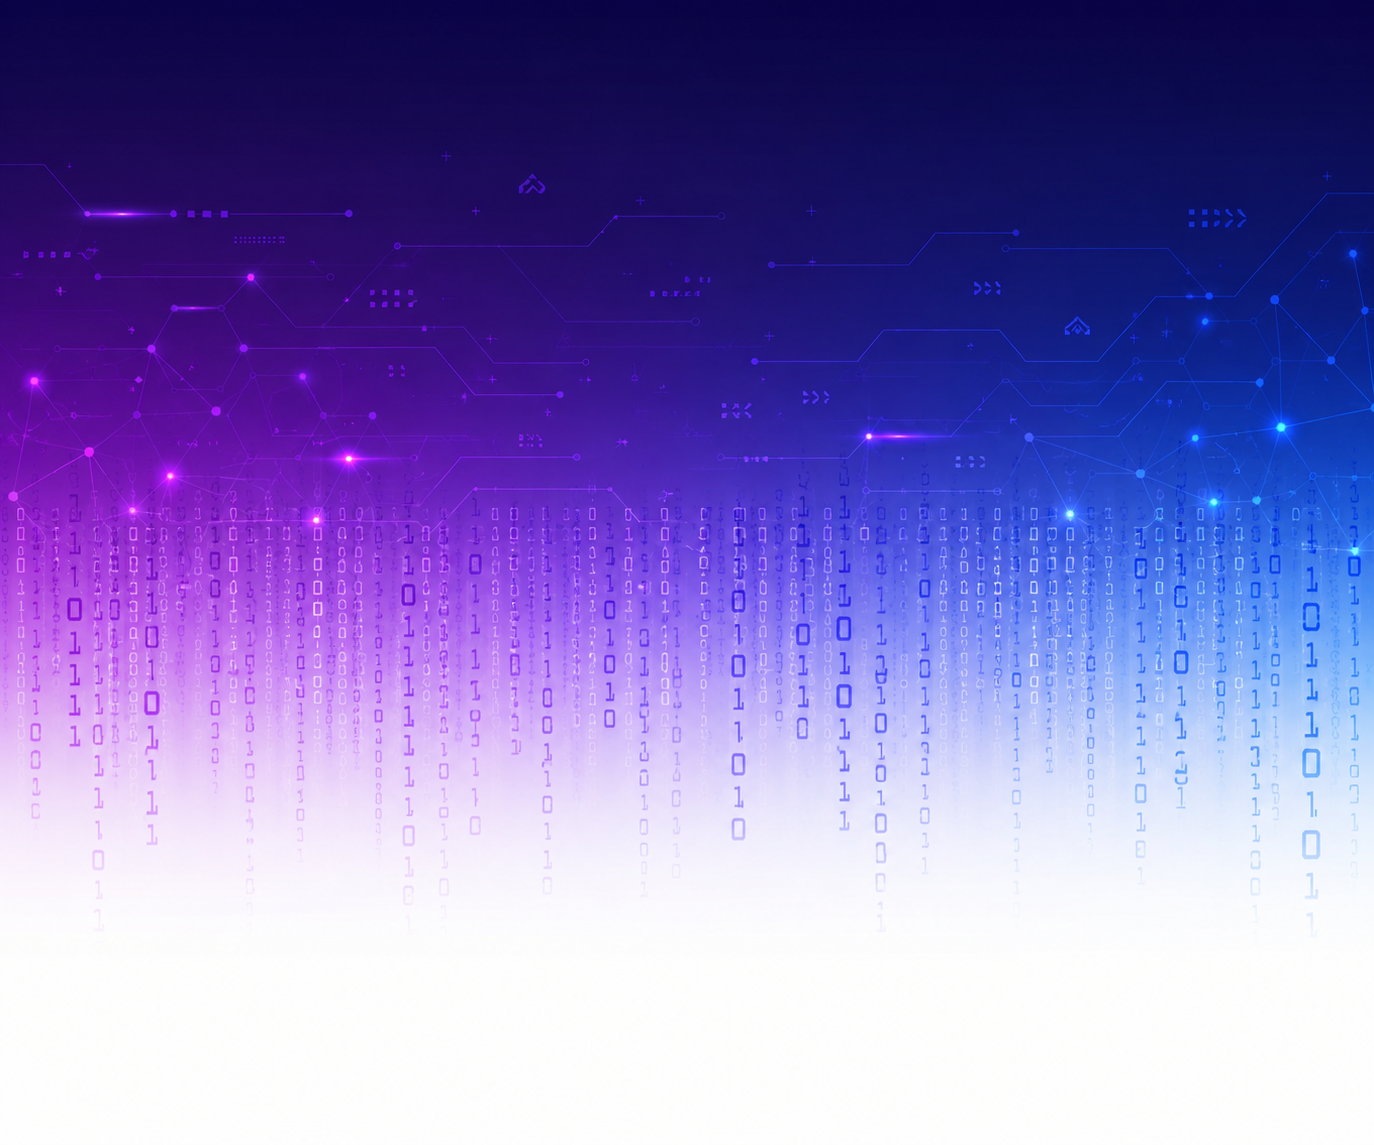
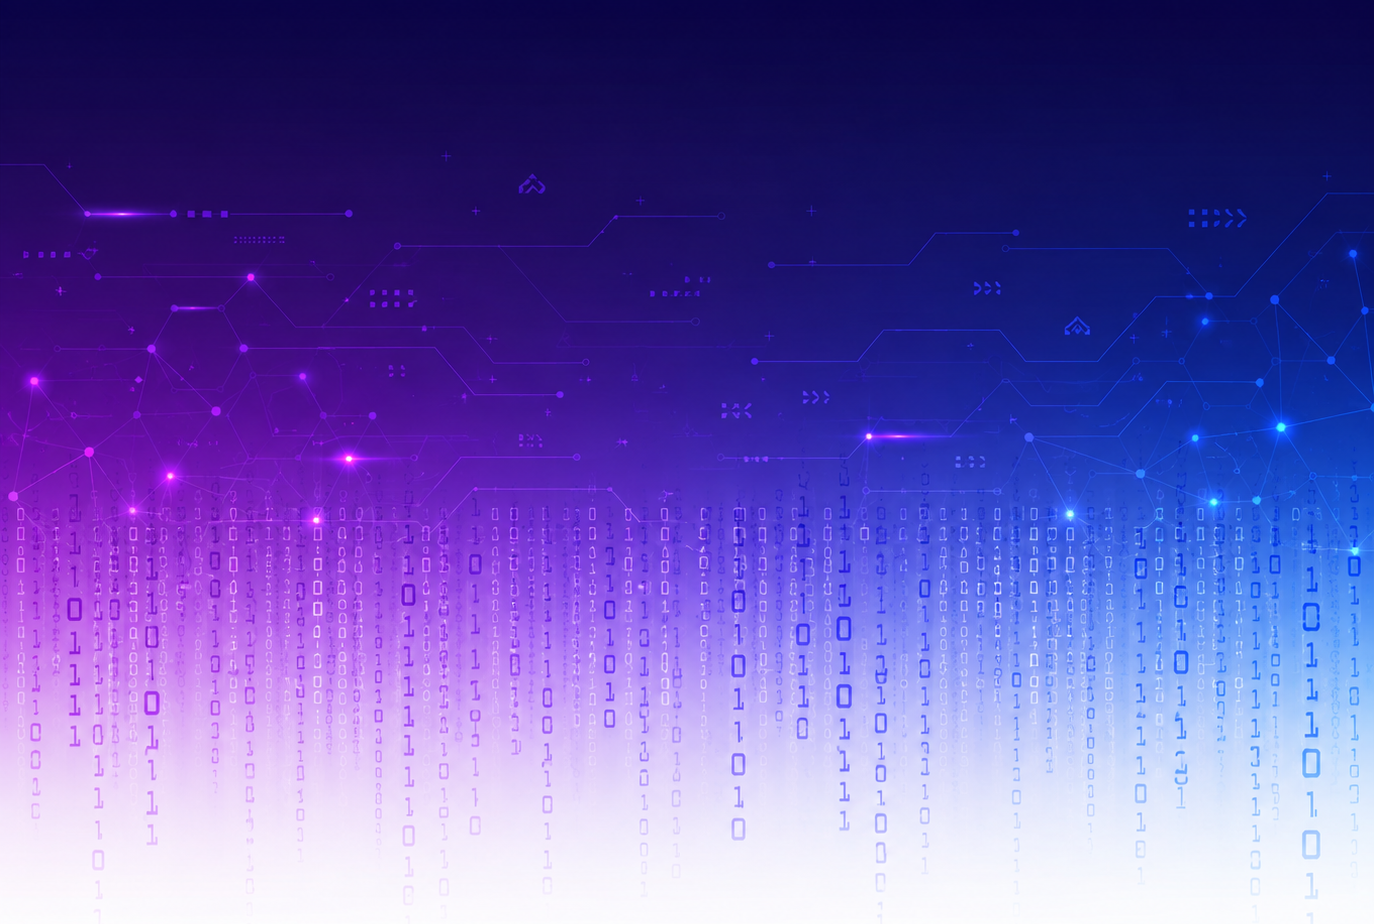
feat: conteúdo principal (primeira versão)

diff --git a/index.html b/index.html
@@ -4,38 +4,178 @@
 <head>
     <meta charset="UTF-8">
     <meta name="viewport" content="width=device-width, initial-scale=1.0">
+    <link href="https://cdn.jsdelivr.net/npm/bootstrap@5.3.8/dist/css/bootstrap.min.css" rel="stylesheet" integrity="sha384-sRIl4kxILFvY47J16cr9ZwB07vP4J8+LH7qKQnuqkuIAvNWLzeN8tE5YBujZqJLB" crossorigin="anonymous">
+    <link href="https://fonts.googleapis.com/css2?family=Poppins:wght@300;400;500;600;700&display=swap" rel="stylesheet">
     <link rel="stylesheet" href="styles.css">
+
     <title> Portifólio - Camila Rocha</title>
 </head>
 
 <body>
+    
     <img id="fundo" src="\img\fundo-portifolio.png" alt="fundo de tela">
 
     <header class="topo">
         <nav id="barra-navegacao">
-            <nav class="">
-                <a href="" id="btn-formacao">Formação</a>
-                <a href="" id="btn-hobbies">Projetos Acadêmicos</a>
-                <a href="" id="btn-hobbies">Projetos Pessoais</a>
-                <a href="" id="btn-hobbies">Hobbies & Interesses</a>
-            </nav>
+            
+                <a href="#sobre-mim" id="btn-sobre">Sobre</a>
+                <a href="#formacao" id="btn-formacao">Formação & Experiências</a>
+                <a href="#projetos" id="btn-projetos">Projetos</a>
+                <a href="#hobbies" id="btn-hobbies">Hobbies & Interesses</a>
+            
         </nav>
 
         <div class="titulo">
 
             <div id="titulo-nome">
                 <div id="foto_nome">
-                    <img id="minha-foto" src="" alt="Camila">
-                    <h1 class="nome">Camila Rocha</h1>
+                    <img id="minha-foto" src="\img\Foto_formalCortada3X4.JPG" alt="Camila">
+                    <div class="nome">
+                        <h1 id="camila">Camila Rocha</h1>
+                        <h3 id="camila-descricao">Estudante de Engenharia de Computação</h3>
+                        <div class="links">
+                            <button class="redes-sociais">
+                                <a id="linkedin" href="https://www.linkedin.com/in/camilausrocha/">LinkedIn</a>
+                            </button>
+                            <button  class="redes-sociais">
+                                <a id="curriculo-lattes" href="http://lattes.cnpq.br/1262790311449494">Lattes</a>
+                            </button>
+                        </div>
+                        
+                    </div>
                 </div>
-
-                <h2 class="nome">Estudante de Engenharia de Computação</h2>
             </div>
 
         </div>
     </header>
 
+    <section>
+        <!--SOBRE MIM-->
+        <div class="sobre-container" id="sobre-mim">
+            <h2 class="secao-titulo">Sobre mim</h2>
+            <p class="texto">Sou estudante de Engenharia da Computação, apaixonada por tecnologia e por transformar ideias em soluções. 
+                Tenho interesse em desenvolvimento de software, Inteligência Artificial, dados e tecnologias imersivas.</p>
+            <p class="texto">Ao longo da minha formação, venho buscando unir conhecimento técnico, criatividade e pesquisa por meio de 
+                projetos acadêmicos e experiências práticas. 
+                Estou sempre em busca de novos desafios e oportunidades para aprender, evoluir e construir tecnologias que façam a diferença.</p>
+            <img id="foto-cimatec" src="https://encrypted-tbn0.gstatic.com/images?q=tbn:ANd9GcRUS1OpNFVLbGpNes0fF6_YSXW_mGLy3oaj95BMQ_Tnlg&s=10" alt="cimatec">
+        </div>      
+          <!--FORMAÇÃO E EXPERIÊNCIAS-->
+        <div class="sobre-container" id="formacao">
+            <h2 class="secao-titulo">Formação & Experiências</h2>
+            <p class="texto">
+                Estudante de <strong>Engenharia de Computação na Universidade SENAI CIMATEC</strong>, atualmente cursando o 6º semestre.
+            </p>
+            <!--SUBTOPICOS-->
+            <h3 class="subtopico">CIMATEC Jr.</h3>
+            <p class="sub-texto">Atuação na empresa jr da Universidade CIMATEC, 
+                com experiência em desenvolvimento profissional, organização e trabalho em equipe.</p>
 
+            <h3 class="subtopico">Clube de Programação</h3>
+            <p class="sub-texto">Atuação como Diretora da área de marketing e comunicação,
+                contribuindo para a criação de conteúdos, divulgação das atividades do clube e organização do setor.</p>
+
+            <!--CLUBE DE PROGRAMAÇÃO - CARROSSEL DE FOTOS-->
+            <div id="carouselExample" class="carousel slide" data-bs-ride="carousel">
+                <div class="carousel-inner">
+                    <div class="carousel-item active">
+                    <img src="img/primeira-foto-clube.jpg" class="imagem-carrossel" alt="diretoria do clube">
+                    </div>
+                    <div class="carousel-item">
+                    <img src="img/diretoriaClube.jpeg" class="imagem-carrossel" alt="diretoria do clube">
+                    </div>
+                    <div class="carousel-item">
+                    <img src="img/marketing-clube.JPG" class="imagem-carrossel" alt="marketing do clube">
+                    </div>
+                </div>
+                <button class="carousel-control-prev" type="button" data-bs-target="#carouselExample" data-bs-slide="prev">
+                    <span class="carousel-control-prev-icon" aria-hidden="true"></span>
+                    <span class="visually-hidden">Previous</span>
+                </button>
+                <button class="carousel-control-next" type="button" data-bs-target="#carouselExample" data-bs-slide="next">
+                    <span class="carousel-control-next-icon" aria-hidden="true"></span>
+                    <span class="visually-hidden">Next</span>
+                </button>
+            </div>
+
+
+            <h3 class="subtopico">HIIVE Lab / INCITE Indústria 4.0</h3>
+            <p class="sub-texto">Bolsista de Iniciação Científica no Laboratório de Realidade Virtual HIIVE Lab do SENAI CIMATEC com participação 
+                em projetos de pesquisa e divulgação científica envolvendo Realidade Virtual e Indústria 4.0 
+                e estudos de presença em ambientes imersivos.</p>
+
+            <h3 class="subtopico">Eventos e competições</h3>
+            <p class="sub-texto">Participação em eventos e iniciativas de tecnologia, incluindo SUCESU-BA 2025, SBGAMES, SVR e SIBGRAPI 2025 como voluntária, 
+                além da Olimpíada de Computação CIMATEC nos anos 2024 e 2025 e da Olimpíada Brasileira de Informática (OBI) em 2024.</p>
+            
+        </div>
+          <!--PROJETOS DESENVOLVIDOS-->
+        <div class="sobre-container" id="projetos">
+            <h2 class="secao-titulo">Projetos Desenvolvidos</h2>
+
+            <!--SUBTOPICOS-->
+
+            <h3 class="subtopico">Pokémon Battle Game</h3>
+            <p class="sub-texto"> Jogo desenvolvido em C,
+                aplicando conceitos de algoritmos, estruturas de dados e lógica de programação.</p>
+
+            <h3 class="subtopico">Banco de Dados — INCITE Indústria 4.0</h3>
+            <p class="sub-texto"> Projeto de modelagem e implementação de banco de dados utilizando Oracle, SQL e PL/SQL, 
+                incluindo triggers, funções e regras de negócio.
+                Desenvolvimento de um banco de dados para centralizar e organizar informações da Rede INCITE Indústria 4.0, 
+                abrangendo gestão de colaboradores, pesquisadores, projetos, recursos financeiros, 
+                estoque e processos de aquisição, incluindo o controle de despesas e a documentação associada às compras.
+            </p>
+
+            <h3 class="subtopico"> BioHome App</h3>
+            <p class="sub-texto"> Desenvolvimento de um aplicativo que oferece
+                calendários personalizados de coleta seletiva conforme a localização do usuário, 
+                facilitando a organização e o descarte correto de resíduos em ambientes residenciais. 
+                O projeto busca utilizar a tecnologia para incentivar a reciclagem, promover hábitos sustentáveis 
+                e reduzir os impactos ambientais causados pelo descarte inadequado.</p>
+
+            <h3 class="subtopico">Landing Page — Clube do Livro</h3>
+            <p class="sub-texto"> Desenvolvimento de uma landing page para um clube do livro, com foco em experiência do usuário, 
+                design responsivo e comunicação visual, incentivando a leitura e a participação em comunidades literárias.</p>
+        </div>
+
+        <!--HOBBIES E INTERESSES-->
+
+        <div class="sobre-container" id="hobbies">
+            <h2 class="secao-titulo">Hobbies & Interesses</h2>
+            <p class="texto">Fora da programação e da universidade, gosto de atividades
+                que envolvam criatividade, esporte, tecnologia e aprendizado.</p>
+            
+            <ul>
+                <li id="item1" class="texto"><strong>Programação</strong> — Gosto de aprender novas linguagens, 
+                    frameworks e tecnologias desenvolvendo projetos na prática.</li>
+                <li id="item1" class="texto"><strong>Inteligência Artificial</strong> — Tenho interesse em IA generativa, 
+                    LLMs, agentes inteligentes e novas aplicações da tecnologia.</li>
+                <li id="item1" class="texto"><strong>Dados</strong> — Interesse em análise de dados e na utilização de informações para criar soluções e tomar decisões.</li>
+                <li id="item1" class="texto"><strong>Criatividade e design</strong> — Também gosto de explorar a parte visual e criativa dos projetos,
+                     especialmente interfaces, identidade visual e criação de conteúdo.</li>
+                <li id="item1" class="texto"><strong>Vôlei</strong> — Além de praticar, já tive experiência na organização e 
+                    liderança de uma equipe feminina de vôlei. Atualmente, sou capitã do time da atlética Cimatlética SENAI CIMATEC ,
+                    além de participar como membro da diretoria de 2026.</li>
+            </ul>
+
+
+
+        </div>
+
+    </section>
+
+
+<script src="https://cdn.jsdelivr.net/npm/bootstrap@5.3.3/dist/js/bootstrap.bundle.min.js"></script>
+    
 </body>
 
+<footer id="rodape">
+    <div id="contato">
+        <p>Email: milaurocha@gmail.com</p>
+        <p>Tel: (71) 9 9954-2005</p>
+    </div>
+</footer>
+
 </html>
+

diff --git a/styles.css b/styles.css
@@ -1,9 +1,16 @@
 
+/*CSS Global*/
 html, body {
     margin: 0;
     padding: 0;
     box-sizing: border-box;
 }
+
+a{
+    color: aliceblue;
+    text-decoration: none;
+}
+/*-------------------------*/
 
 #fundo{
     width: 100%;
@@ -12,14 +19,14 @@ html, body {
 }
 
 .topo{
-    position: fixed;
+    position: absolute;
     top: 0;
     left: 0;
     width: 100%;
     z-index: 1000;
 }
 
-#barra-navegacao nav{
+#barra-navegacao{
     display: flex;
     justify-content: center;
     align-items: center;
@@ -52,11 +59,134 @@ html, body {
     flex-direction: column;
     justify-content: center;
     align-items: center;
-    padding: 100px 0;
+    padding: 40px 0;
 }
 
 #foto_nome{
     display: flex;
-    gap: 20px;
-    
+    gap: 10px;
+    align-items: center;
+}
+
+#minha-foto{
+    border-radius: 100%;
+    height: 200px;
+    width: 200px;
+    border-color: rgb(226, 43, 226);
+    border-width: 2px;
+    border-style: outset;
+}
+
+.nome{
+    font-family: Poppins;
+    color: white;
+    font-weight: 500;
+}
+
+#camila{
+    font-family: 'Poppins', sans-serif;
+    font-size: 40px;
+    margin-bottom: 4px;
+    margin-left: 20px;
+}
+
+#camila-descricao{
+    font-family: 'Poppins', sans-serif;
+    font-size: 20px;
+    margin-top: 0;
+    margin-left: 20px;
+    font-weight: 300;
+}
+
+.links{
+    gap:18px;
+    display: flex;
+    justify-content: first baseline;
+    padding: 18px;
+}
+
+.redes-sociais{
+    padding: 10px;
+    font-family: 'Segoe UI', Tahoma, Geneva, Verdana, sans-serif;
+    height: auto;
+    width: 120px;
+    background-color: rgb(99, 21, 172);
+    font-size: medium;
+    border: none;
+    border-radius: 30px;
+    color: white;
+}
+
+.redes-sociais:hover{
+    background-color:  rgb(68, 14, 119);
+}
+
+#foto-cimatec{
+    width: 580px;
+    height: auto;
+}
+
+.sobre-container{
+    display: flex;
+    flex-direction: column;
+    justify-content: center;
+    align-items: flex-start;
+    padding: 0 400px 100px 400px;
+}
+
+.secao-titulo{
+    font-family: 'Segoe UI', Tahoma, Geneva, Verdana, sans-serif;
+    font-family: 'Poppins', sans-serif;
+    font-size: 28px;
+    color:  rgb(68, 14, 119) ;
+    font-weight: 650;
+    margin-bottom: 20px;
+}
+
+.subtopico{
+    font-family: 'Segoe UI', Tahoma, Geneva, Verdana, sans-serif;
+    color:  rgb(101, 46, 153) ;
+    font-size: 22px;
+}
+
+.texto, 
+.sub-texto{
+    font-family: 'Poppins', sans-serif;
+    font-size: 16px;
+    color: black;
+}
+
+/*CARROSSEL DE IMAGENS*/
+
+.imagem-carrossel {
+    width: 100%;
+    height: 400px;
+    object-fit: cover;
+}
+
+ #carouselExempleControls{
+        width: 60%;
+      }
+
+#carouselExample{
+    max-width: 560px;
+    height: auto;
+    margin: 40px 0 80px 0;
+}
+
+#rodape{
+    background: linear-gradient(rgba(87, 19, 150, 0.508), rgba(77, 32, 119, 0.842) , rgba(45, 8, 80, 0.936)) ;
+    color: rgb(28, 3, 37);
+    margin: 0;
+    box-sizing: border-box;
+    height: 100%;
+    padding: 20px;
+}
+
+#contato{
+    gap: 0;
+    display: flex;
+    flex-direction: column;
+    justify-content: center;
+    align-items: center;
 }
